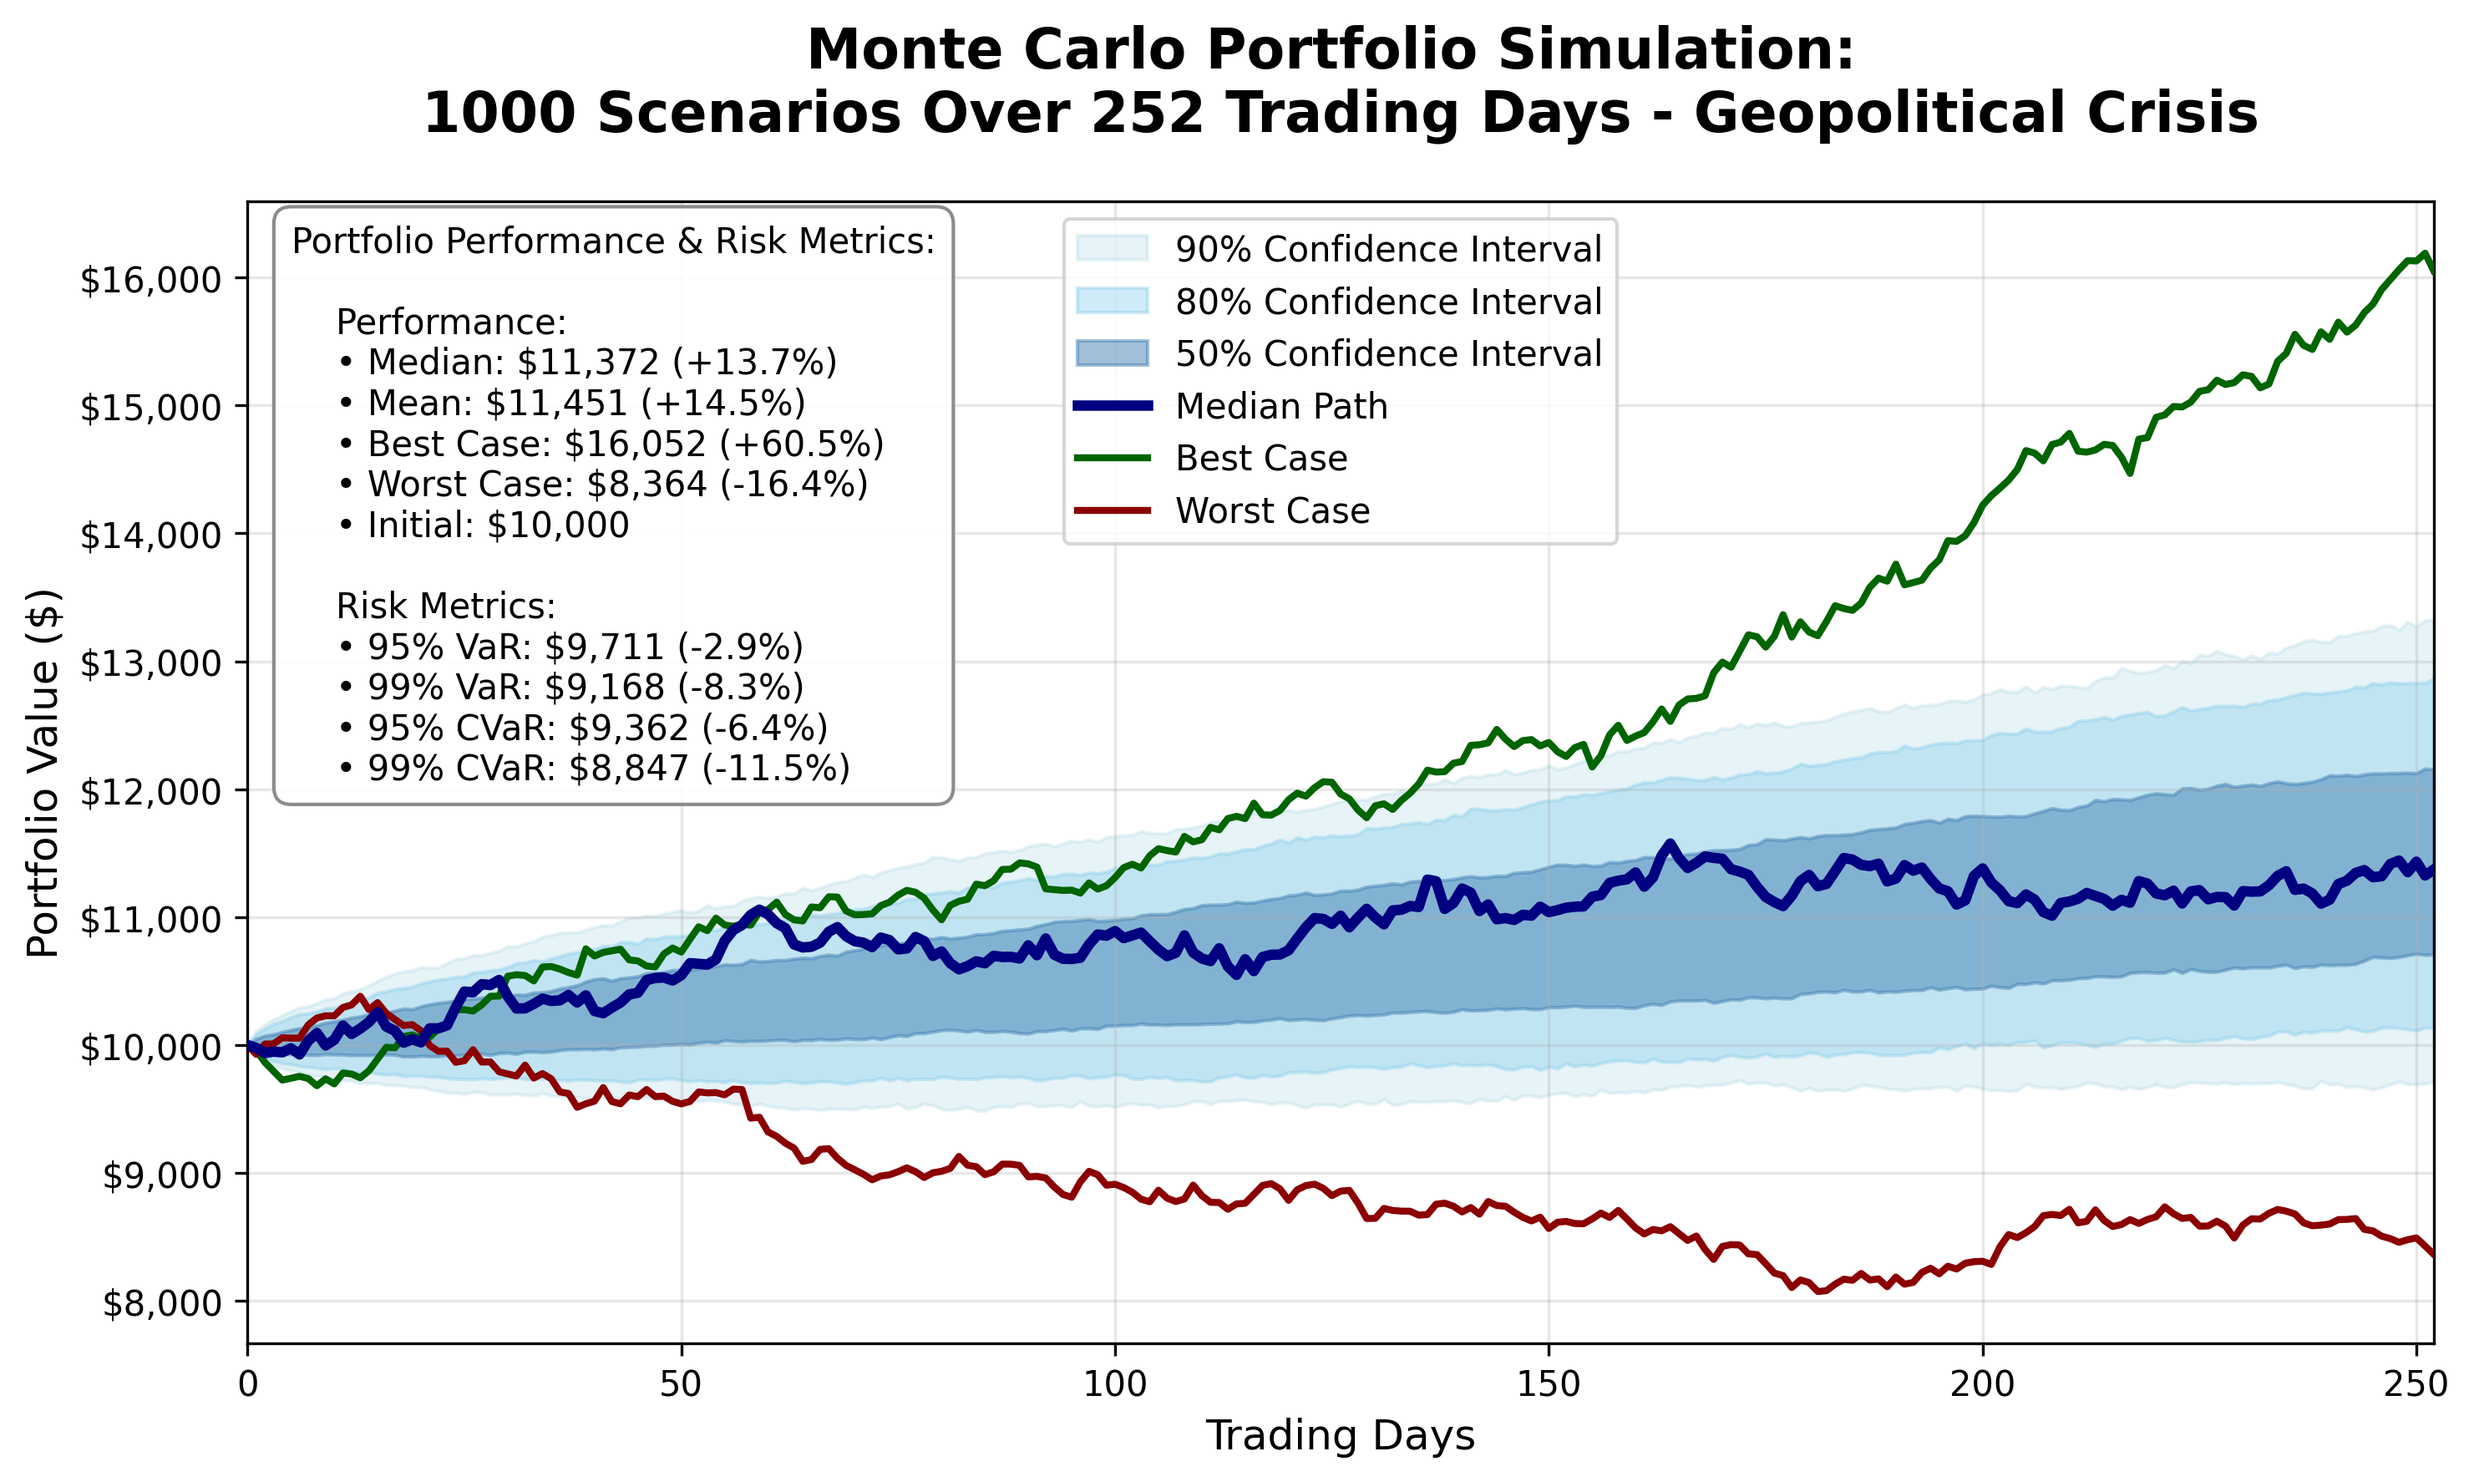
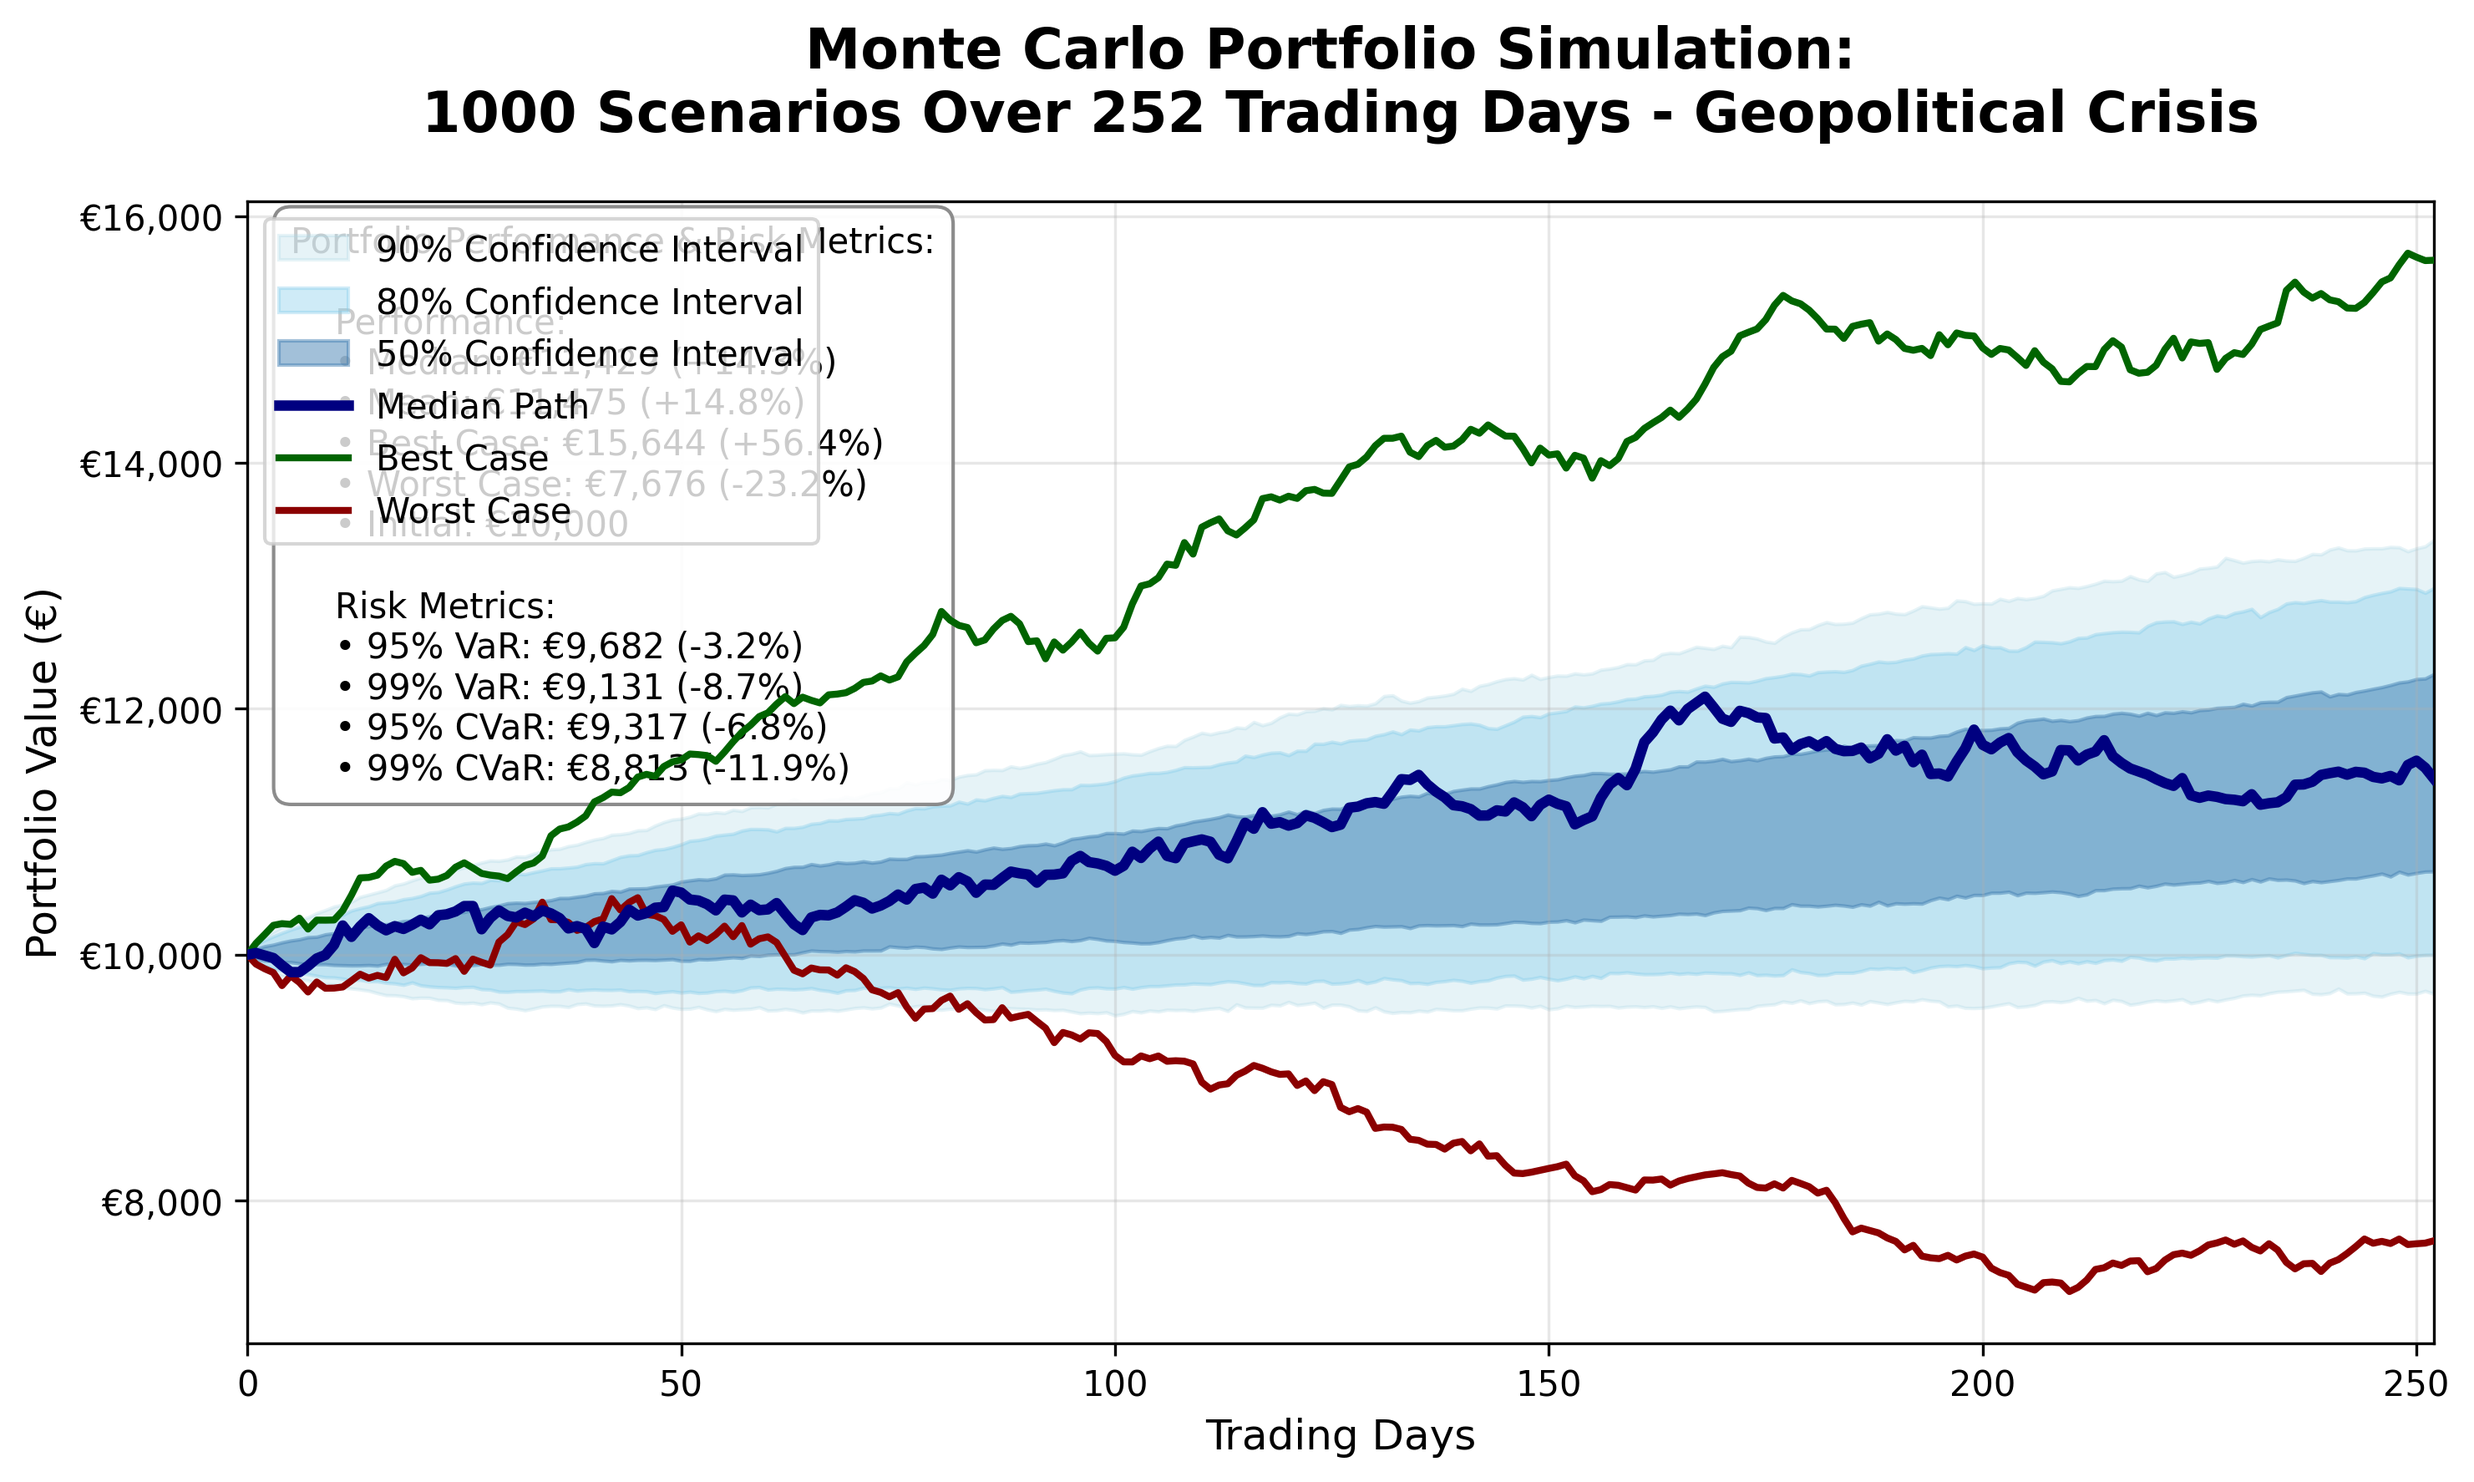
Refactor: use 'fiat' for scenario names and 'euro' for EUR portfolio metrics

diff --git a/src/visualization.py b/src/visualization.py
@@ -98,17 +98,17 @@ def plot_simulation_results(portfolio_paths, regime_name=None):
     stats_text = f"""Portfolio Performance & Risk Metrics:
     
     Performance:
-    • Median: ${perf_stats['median_final']:,.0f} ({perf_stats['median_return_pct']:+.1f}%)
-    • Mean: ${perf_stats['mean_final']:,.0f} ({perf_stats['mean_return_pct']:+.1f}%)
-    • Best Case: ${perf_stats['best_final']:,.0f} ({perf_stats['best_return_pct']:+.1f}%)
-    • Worst Case: ${perf_stats['worst_final']:,.0f} ({perf_stats['worst_return_pct']:+.1f}%)
-    • Initial: ${perf_stats['initial_value']:,.0f}
+    • Median: €{perf_stats['median_final']:,.0f} ({perf_stats['median_return_pct']:+.1f}%)
+    • Mean: €{perf_stats['mean_final']:,.0f} ({perf_stats['mean_return_pct']:+.1f}%)
+    • Best Case: €{perf_stats['best_final']:,.0f} ({perf_stats['best_return_pct']:+.1f}%)
+    • Worst Case: €{perf_stats['worst_final']:,.0f} ({perf_stats['worst_return_pct']:+.1f}%)
+    • Initial: €{perf_stats['initial_value']:,.0f}
 
     Risk Metrics:
-    • 95% VaR: ${risk_metrics['var_95']:,.0f} ({risk_metrics['var_95_pct']:+.1f}%)
-    • 99% VaR: ${risk_metrics['var_99']:,.0f} ({risk_metrics['var_99_pct']:+.1f}%)
-    • 95% CVaR: ${risk_metrics['cvar_95']:,.0f} ({risk_metrics['cvar_95_pct']:+.1f}%)
-    • 99% CVaR: ${risk_metrics['cvar_99']:,.0f} ({risk_metrics['cvar_99_pct']:+.1f}%)"""
+    • 95% VaR: €{risk_metrics['var_95']:,.0f} ({risk_metrics['var_95_pct']:+.1f}%)
+    • 99% VaR: €{risk_metrics['var_99']:,.0f} ({risk_metrics['var_99_pct']:+.1f}%)
+    • 95% CVaR: €{risk_metrics['cvar_95']:,.0f} ({risk_metrics['cvar_95_pct']:+.1f}%)
+    • 99% CVaR: €{risk_metrics['cvar_99']:,.0f} ({risk_metrics['cvar_99_pct']:+.1f}%)"""
 
     plt.text(
         0.02,
@@ -130,13 +130,13 @@ def plot_simulation_results(portfolio_paths, regime_name=None):
         pad=20,
     )
     plt.xlabel("Trading Days", fontsize=12)
-    plt.ylabel("Portfolio Value ($)", fontsize=12)
+    plt.ylabel("Portfolio Value (€)", fontsize=12)
     plt.grid(True, alpha=0.3)
     plt.legend()
     plt.margins(x=0)  # Remove horizontal padding to fit the data snugly
 
     # Format y-axis as currency
-    plt.gca().yaxis.set_major_formatter(FuncFormatter(lambda x, p: f"${x:,.0f}"))
+    plt.gca().yaxis.set_major_formatter(FuncFormatter(lambda x, p: f"€{x:,.0f}"))
 
     plt.tight_layout()
 

diff --git a/src/main.py b/src/main.py
@@ -1,7 +1,7 @@
 from portfolio import (
     get_portfolio,
     GEOPOLITICAL_CRISIS_REGIME,
-    DOLLAR_DEBASEMENT_REGIME,
+    FIAT_DEBASEMENT_REGIME,
 )
 from utils import (
     fetch_close_prices,
@@ -22,12 +22,12 @@ mean_historical_returns, cov_matrix = calculate_mean_and_covariance(daily_return
 historical_paths = simulate_portfolio_paths(
     mean_historical_returns, cov_matrix, weights
 )
-
-mean_dollar_debasement_returns = modify_returns_for_regime(
-    mean_historical_returns, tickers, DOLLAR_DEBASEMENT_REGIME
+            
+mean_fiat_debasement_returns = modify_returns_for_regime(
+    mean_historical_returns, tickers, FIAT_DEBASEMENT_REGIME
 )
-dollar_debasement_path = simulate_portfolio_paths(
-    mean_dollar_debasement_returns, cov_matrix, weights
+fiat_debasement_path = simulate_portfolio_paths(
+    mean_fiat_debasement_returns, cov_matrix, weights
 )
 
 mean_geopolitical_crisis_returns = modify_returns_for_regime(
@@ -40,5 +40,5 @@ geopolitical_crisis_path = simulate_portfolio_paths(
 )
 
 plot_simulation_results(historical_paths, "Historical")
-plot_simulation_results(dollar_debasement_path, "Dollar Debasement")
+plot_simulation_results(fiat_debasement_path, "Fiat Debasement")
 plot_simulation_results(geopolitical_crisis_path, "Geopolitical Crisis")

diff --git a/src/monte_carlo.py b/src/monte_carlo.py
@@ -68,7 +68,7 @@ def calculate_risk_metrics(portfolio_paths):
         initial_value (float): Initial portfolio value for percentage calculations.
 
     Returns:
-        dict: Dictionary containing risk metrics with dollar amounts and percentages.
+        dict: Dictionary containing risk metrics with euro amounts and percentages.
     """
 
     final_values = [path[-1] for path in portfolio_paths]
@@ -173,7 +173,6 @@ def modify_returns_for_regime(mean_returns, tickers, asset_factors):
         mean_returns: Historical mean returns for each asset
         tickers: List of asset tickers
         asset_factors: Dictionary of factors for each asset with "name" key
-                      Default factors for dollar debasement scenario if None
 
     Returns:
         tuple: (modified_returns, regime_name)

diff --git a/src/portfolio.py b/src/portfolio.py
@@ -12,13 +12,13 @@ def get_portfolio():
     return (tickers, weights)
 
 
-DOLLAR_DEBASEMENT_REGIME = {
+FIAT_DEBASEMENT_REGIME = {
     "BTC-EUR": 1.2,  # 20% higher - inflation hedge
     "4GLD.DE": 1.15,  # 15% higher - safe haven
-    "5MVW.DE": 1.1,  # 10% higher - weak dollar helps
+    "5MVW.DE": 1.1,  # 10% higher - weak fiat helps
     "SPYL.DE": 0.9,  # 10% lower - higher rates hurt
     "WMIN.DE": 1.15,  # 15% higher - commodity boom
-    "IS3N.DE": 1.1,  # 10% higher - weak dollar helps
+    "IS3N.DE": 1.1,  # 10% higher - weak fiat helps
 }
 
 GEOPOLITICAL_CRISIS_REGIME = {

diff --git a/README.md b/README.md
@@ -8,7 +8,7 @@ This project implements a sophisticated Monte Carlo simulation framework for por
 
 - **Multi-asset portfolio simulation** with 6 diverse assets (cryptocurrency, global stocks, commodities, bonds)
 - **Historical data analysis** using real market data from Yahoo Finance
-- **Macroeconomic scenario modeling** including dollar debasement and geopolitical crisis scenarios
+- **Macroeconomic scenario modeling** including fiat debasement and geopolitical crisis scenarios
 - **Professional risk metrics** including Value at Risk (VaR), Conditional VaR (CVaR), and maximum drawdown
 - **Advanced visualization** with confidence intervals and percentile bands
 
@@ -82,7 +82,7 @@ This will:
 - Calculate mean returns and covariance matrix
 - Run Monte Carlo simulations for three scenarios:
   - Historical (baseline)
-  - Dollar Debasement
+  - Fiat Debasement
   - Geopolitical Crisis
 - Generate visualization charts saved to `charts/` directory
 
@@ -91,7 +91,7 @@ This will:
 The simulation generates three key visualizations:
 
 1. **Historical Scenario**: Baseline performance using historical market data
-2. **Dollar Debasement**: Scenario where USD weakens, benefiting inflation hedges
+2. **Fiat Debasement**: Scenario where fiat weakens, benefiting inflation hedges
 3. **Geopolitical Crisis**: Risk-off scenario favoring safe-haven assets
 
 Each chart displays:
@@ -122,7 +122,7 @@ Each chart displays:
 - Uses actual market data from 2022-2024
 - Represents baseline expectations based on recent market behavior
 
-#### Dollar Debasement Scenario
+#### Fiat Debasement Scenario
 - Models USD weakness and inflationary pressures
 - **Winners**: Bitcoin (+20%), Gold (+15%), Commodities (+15%)
 - **Losers**: US stocks (-10%) due to higher rates

diff --git a/tasks.md b/tasks.md
@@ -171,7 +171,7 @@ Test how different parameter adjustments affect portfolio outcomes
 Acceptance Criteria
 
 Test different parameter combinations:
-- Dollar debasement scenario (your macro view)
+- Fiat debasement scenario (your macro view)
 - High inflation vs deflation scenarios
 - High vs low volatility scenarios
 
